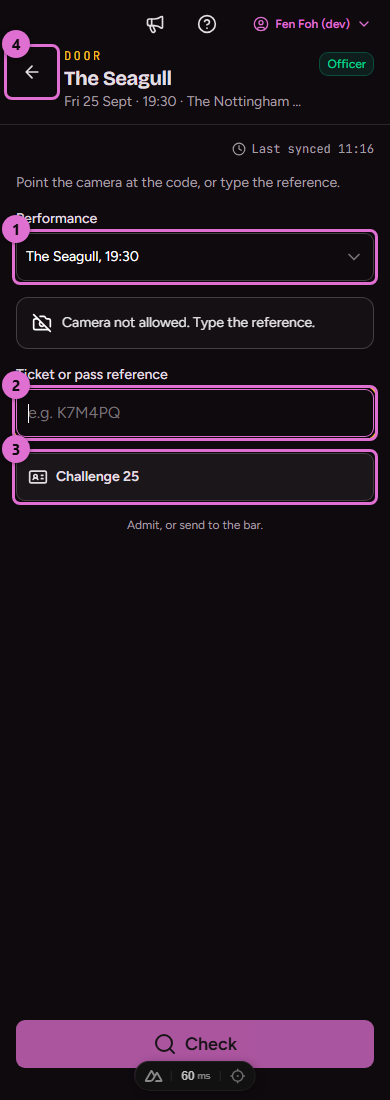
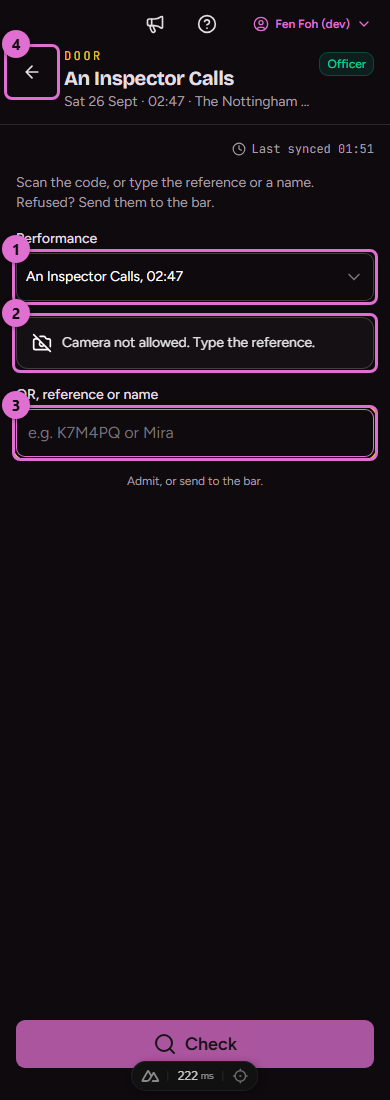
Retake the hub and door pictures, and add the door's name search (#1301)

diff --git a/scripts/docs-shots/show-night.ts b/scripts/docs-shots/show-night.ts
@@ -46,7 +46,7 @@ export const showNight: Shot[] = [
       + 'field.dispatchEvent(new Event(\'input\', { bubbles: true })); '
       + 'setTimeout(() => document.querySelector(\'[data-test="door-scan"]\')?.click(), 200)',
     annotations: [
-      { selector: '[data-test="door-reference"]', label: 'A name' },
+      { selector: '[data-test="door-reference"]', label: 'The field' },
       { selector: '[data-test="door-results"]', label: 'What it found' },
       { selector: '[data-test^="pass-admit-"], [data-test^="door-ticket-admit-"]', label: 'Admit' },
     ],

diff --git a/content/docs/03.tonight/1.door.md b/content/docs/03.tonight/1.door.md
@@ -88,9 +88,10 @@ not filming.
 A name in the field lists tonight's bookings and passes under it, below the camera, which keeps
 running.
 
-![A name typed in the field (1), what it found (2) and the Admit button (3)](/images/docs/show-night/door-search.png)
+![The field after a name (1), what it found (2) and the Admit button (3)](/images/docs/show-night/door-search.png)
 
-1. **A name**: any part of the booker's or holder's name. Two characters is the least it takes.
+1. **The field** takes any part of the booker's or holder's name, and empties once it is checked.
+   Two characters is the least it takes.
 2. **What it found**: each booking for the performance chosen, as a first name, the party size
    and **Paid**, **Unpaid** or **In**; and each pass under that name, as its card.
 3. **Admit** on a paid booking admits it and shows the verdict. An unpaid one says **Send to the
